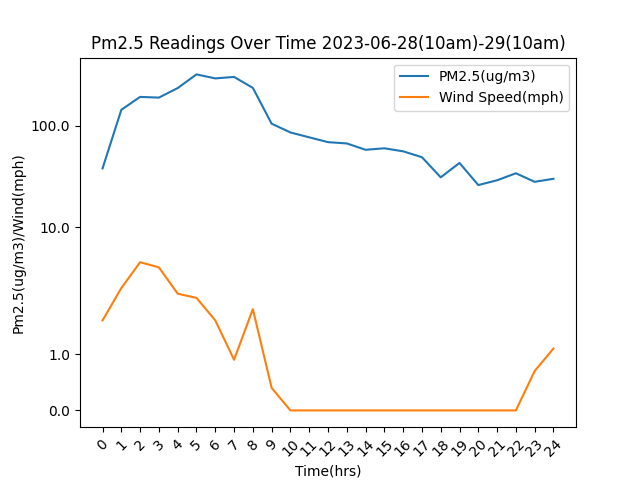
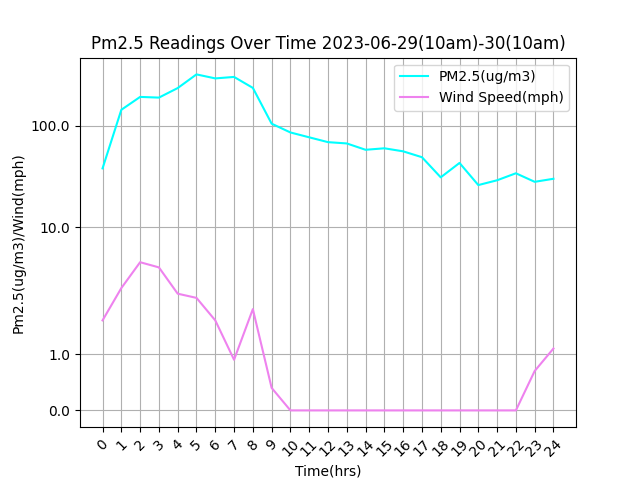
changes

diff --git a/data_processing/src/csv_file_grapher.py b/data_processing/src/csv_file_grapher.py
@@ -7,7 +7,7 @@ import matplotlib.pyplot as plt
 from pandas import *
  
 # reading CSV file
-data = read_csv('2023-06-29&30.csv')
+data = read_csv('2023-06-28&29.csv')
 
 # converting column data to list
 time = data['Time'].tolist()
@@ -27,14 +27,15 @@ x1 = time[1:len(time):60]
 y1 = pm_readings[1:len(pm_readings):60]
 
 
-# plotting the line 1 points 
-plt.plot(x1, y1, label = "PM2.5(ug/m3)")
 
+# plotting the line 1 points 
+plt.plot(x1, y1, color = 'cyan', label = "PM2.5(ug/m3)")
+plt.grid()
 # line 2 points
 x2 = time[1:len(time):60]
 y2 = wind_readings[1:len(wind_readings):60]
 # plotting the line 2 points 
-plt.plot(x2, y2, label = "Wind Speed(mph)")
+plt.plot(x2, y2, color = 'violet', label = "Wind Speed(mph)")
 
 # x3 = time[1:len(time):60]
 # y3 = wind_directions[1:len(wind_directions):60]
@@ -51,6 +52,7 @@ ax = plt.gca()
 ax.set_xticklabels(ax.get_xticks(), rotation = 45)
 ax.set_yticklabels(ax.get_yticks(), rotation = 0)
 # show a legend on the plot
+
 plt.legend()
   
 # function to show the plot
